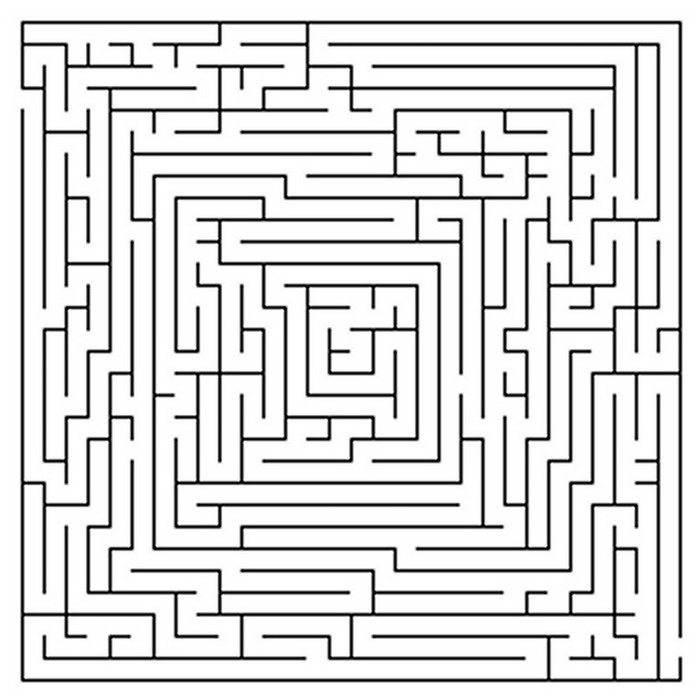
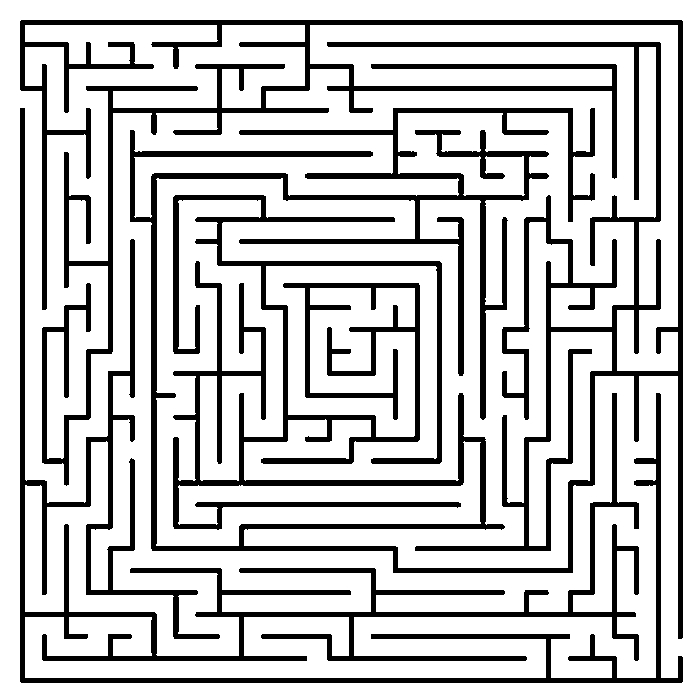
maze change

Changed region(s): [[0.03, 0.03, 0.99, 0.99]]

diff --git a/wavefront_test_2.py b/wavefront_test_2.py
@@ -11,12 +11,12 @@ def simple_obstacle_grid(GRIDSIZE=0, threshold=0):
 def get_obstacle_grid(GRIDSIZE=3, threshold=.01):
     # Open image and convert to numpy array
         ### SELECT ONE ###
-    image = Image.open('supermarkets/supermarket3.jpeg')             # Real supermarket
+    # image = Image.open('supermarkets/supermarket3.jpeg')             # Real supermarket
     # image = Image.open('supermarkets/straight.jpg')     # Test with straight shelves
     # image = Image.open('supermarkets/rotated.jpg')      # Test with rotated shelves
     # image = Image.open('supermarkets/circles.jpg')      # Test with oval shapes
     # image = Image.open('supermarkets/convex.jpg')      # Test with convex star shapes
-    # image = Image.open('supermarkets/doolhof.jpg')      # Test with maze
+    image = Image.open('supermarkets/doolhof.jpg')      # Test with maze
 
     image = image.convert("1")
     image_array = np.asarray(image)

diff --git a/multiple_max_differences.py b/multiple_max_differences.py
@@ -5,13 +5,15 @@ from mpc_steer_speed_us import multiple_max_diff
 
 
 def main():
-    iterations = 100
+    iterations = 10
     max_dif_normal = np.zeros(iterations)
     
     for i in range(iterations):
         print("iteration ", i, "started")
         max_diff = multiple_max_diff()
         max_dif_normal[i] = max_diff
+
+    print(max_dif_normal)
 
 
 if __name__ == '__main__':
